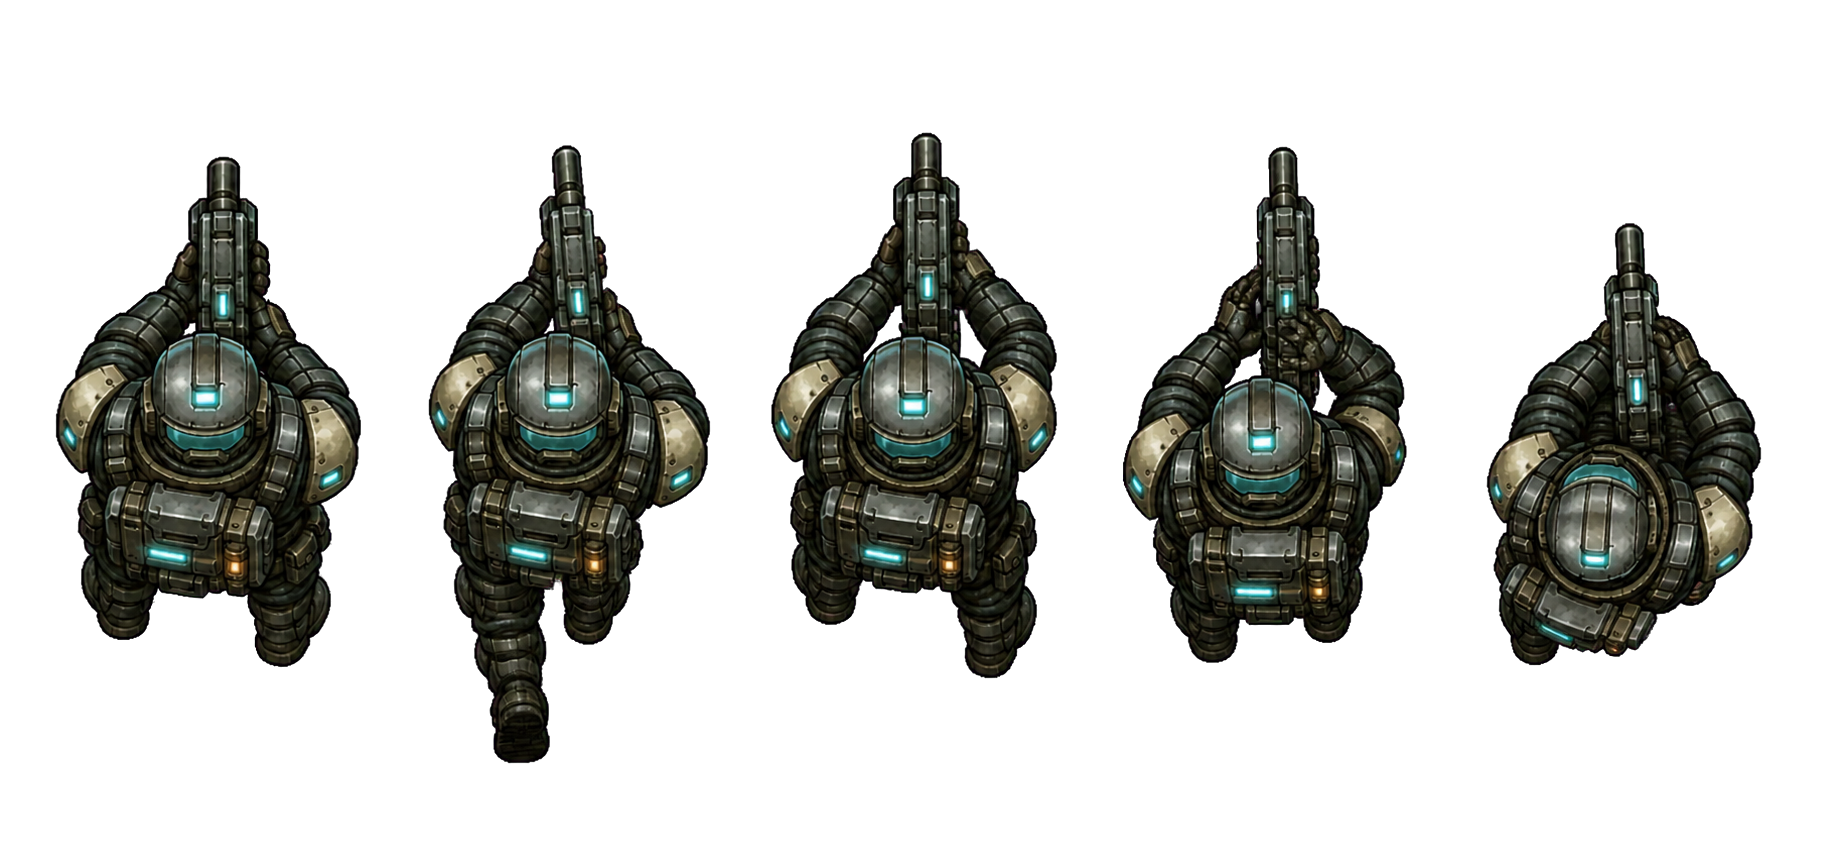
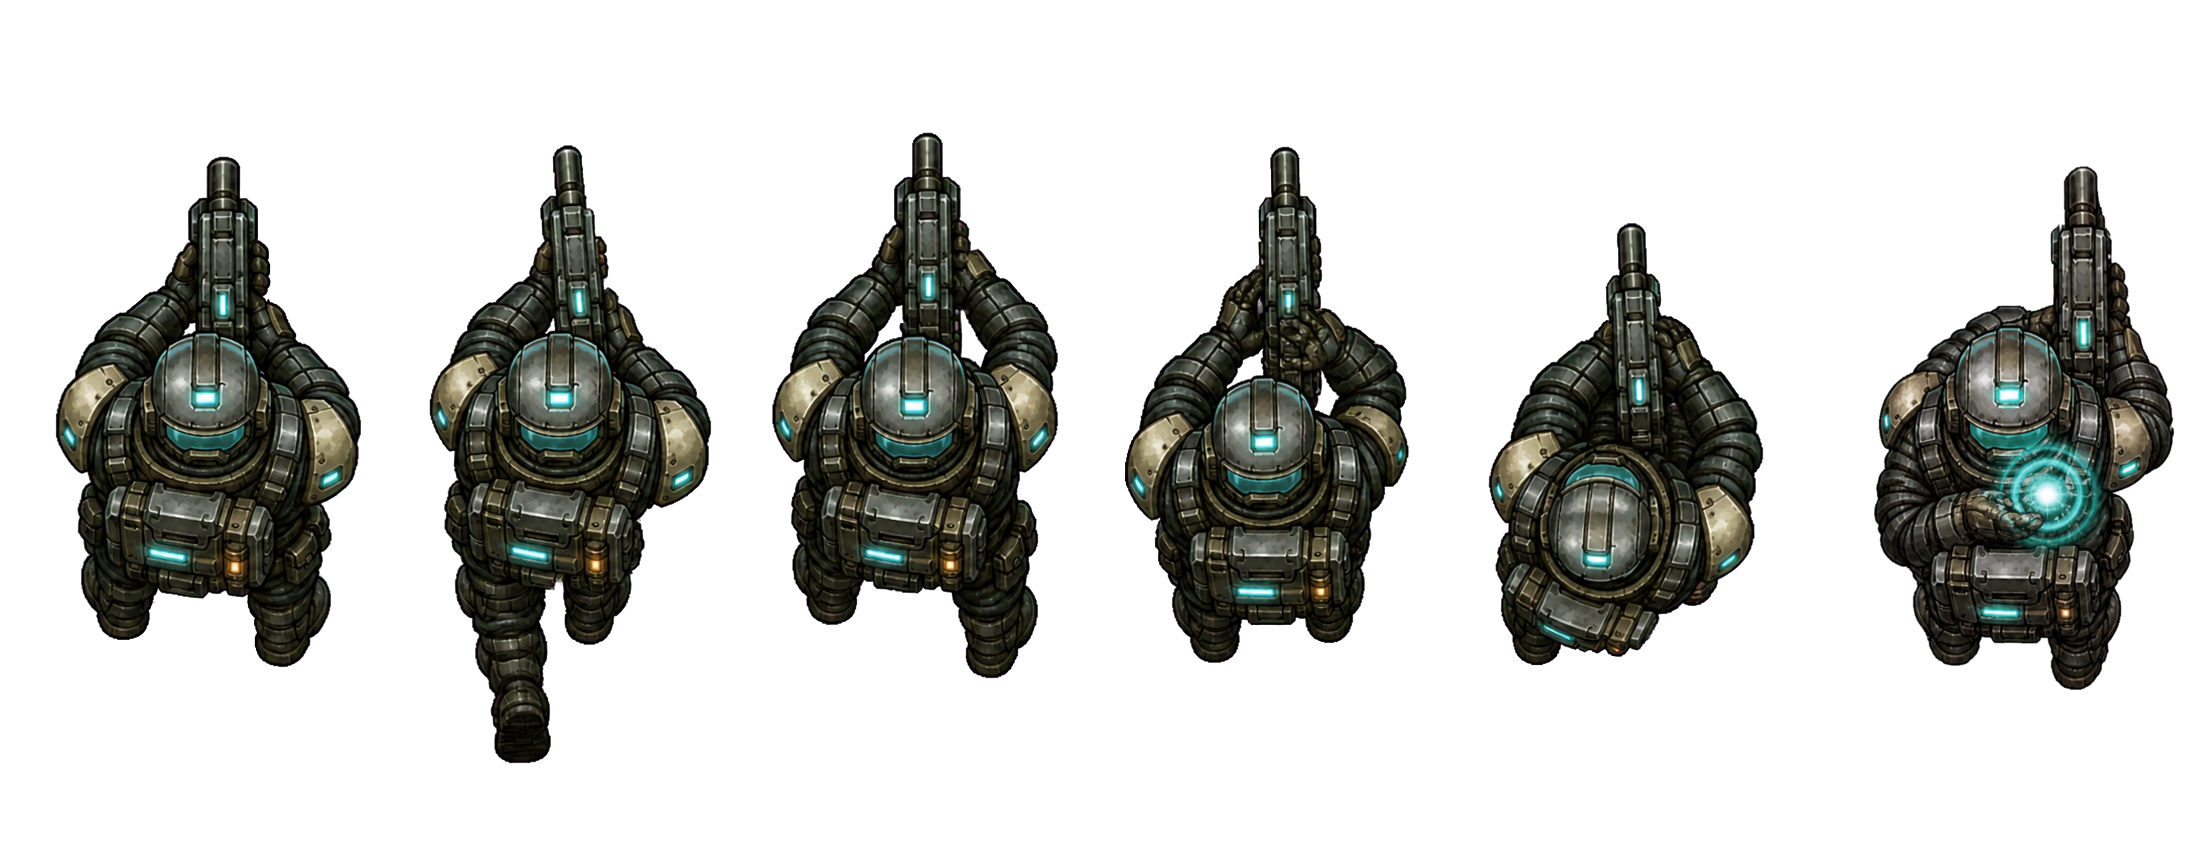
Add Tactical player animation support

diff --git a/apps/multiplayer-outpost-siege-demo/src/content/foundation-definitions.ts b/apps/multiplayer-outpost-siege-demo/src/content/foundation-definitions.ts
@@ -401,7 +401,11 @@ export function outpostSpriteAnimations(assetId: string): AssetAnimationManifest
       animation("outpost.player.reload-active", [7], 1, 0),
       animation("outpost.player.reload-recovering", [7, 8], 4, 0),
       animation("outpost.player.hit", [11], 1, 0),
-      animation("outpost.player.dead", [12], 1, 0)
+      animation("outpost.player.dead", [12], 1, 0),
+      animation("outpost.player.tactical-preparing", [0, 13], 6, 0),
+      animation("outpost.player.tactical-committed", [13], 1, 0),
+      animation("outpost.player.tactical-active", [13], 1, 0),
+      animation("outpost.player.tactical-recovering", [13, 0], 6, 0)
     ];
   }
   return [
@@ -549,6 +553,10 @@ function createPlayerClipDefinitions(assetId: string): AnimationClipDefinition[]
     clip("player", "reload-committed", assetId, 100, false),
     clip("player", "reload-active", assetId, 100, false),
     clip("player", "reload-recovering", assetId, 450, false),
+    clip("player", "tactical-preparing", assetId, 260, false),
+    clip("player", "tactical-committed", assetId, 1, false),
+    clip("player", "tactical-active", assetId, 160, false),
+    clip("player", "tactical-recovering", assetId, 260, false),
     clip("player", "hit", assetId, 180, false),
     clip("player", "dead", assetId, 1_000, true)
   ];
@@ -567,7 +575,8 @@ function createEnemyClipDefinitions(role: string, assetId: string): AnimationCli
 function playerPhaseMappings(): NonNullable<AnimatorBindingDefinition["phaseMappings"]> {
   return [
     ...abilityPhaseMappings("ability.outpost.rifle_fire", "rifle"),
-    ...abilityPhaseMappings("ability.outpost.rifle_reload", "reload")
+    ...abilityPhaseMappings("ability.outpost.rifle_reload", "reload"),
+    ...abilityPhaseMappings("ability.outpost.shock_field", "tactical")
   ];
 }
 

diff --git a/apps/multiplayer-outpost-siege-demo/src/test/content-pipeline.test.ts b/apps/multiplayer-outpost-siege-demo/src/test/content-pipeline.test.ts
@@ -244,9 +244,9 @@ describe("Outpost content pipeline", () => {
       frame: { width: 128, height: 128 },
       metadata: {
         referenceSource: "assets-src/outpost/combat/player.webp",
-        sourceColumns: 5,
+        sourceColumns: 6,
         sourceRows: 1,
-        runtimeFrameCount: 13
+        runtimeFrameCount: 14
       }
     });
     expect(playerAsset.animations).toEqual(
@@ -254,7 +254,8 @@ describe("Outpost content pipeline", () => {
         expect.objectContaining({ id: "outpost.player.idle", frames: [0, 1] }),
         expect.objectContaining({ id: "outpost.player.run", frames: [2, 3] }),
         expect.objectContaining({ id: "outpost.player.dash", frames: [9, 10] }),
-        expect.objectContaining({ id: "outpost.player.reload-preparing", frames: [6, 7] })
+        expect.objectContaining({ id: "outpost.player.reload-preparing", frames: [6, 7] }),
+        expect.objectContaining({ id: "outpost.player.tactical-active", frames: [13] })
       ])
     );
     expect(
@@ -307,6 +308,18 @@ describe("Outpost content pipeline", () => {
           phase: "recovering",
           layer: "base",
           clip: "reload-recovering"
+        },
+        {
+          abilityId: "ability.outpost.shock_field",
+          phase: "preparing",
+          layer: "base",
+          clip: "tactical-preparing"
+        },
+        {
+          abilityId: "ability.outpost.shock_field",
+          phase: "active",
+          layer: "base",
+          clip: "tactical-active"
         }
       ])
     );

diff --git a/apps/multiplayer-outpost-siege-demo/src/test/browser-multiplayer.test.ts b/apps/multiplayer-outpost-siege-demo/src/test/browser-multiplayer.test.ts
@@ -205,7 +205,7 @@ describe("Outpost Browser multiplayer", () => {
     expect(world.count()).toBe(0);
   });
 
-  it("presents replicated Dash and reload through the shared player Animator controller", async () => {
+  it("presents replicated Dash, reload, and Tactical through the shared player Animator controller", async () => {
     const backend = createMemoryMultiplayerBackend({ id: "outpost.client-animation.test" });
     const server = createMultiplayerRuntime({ id: "server", backend });
     const multiplayer = createMultiplayerRuntime({ id: "client", backend });
@@ -268,6 +268,24 @@ describe("Outpost Browser multiplayer", () => {
     expect(animationAdapter.frame(controllerId)?.layers[0]).toMatchObject({
       kind: "gameplay-phase",
       clipId: "animation.outpost.player.reload-preparing"
+    });
+
+    snapshot.tick = 3;
+    snapshot.elapsedMs = 900;
+    snapshot.combat.actors[0] = {
+      ...snapshot.combat.actors[0]!,
+      abilityExecutionId: "player.ranger-1:tactical:1",
+      abilityId: "ability.outpost.shock_field",
+      abilityPhase: "active",
+      abilityPhaseStartedAt: 860,
+      abilityPhaseEndsAt: 1_020
+    };
+    await sendSnapshot(server, snapshot);
+    client.runtime.tick(16);
+
+    expect(animationAdapter.frame(controllerId)?.layers[0]).toMatchObject({
+      kind: "gameplay-phase",
+      clipId: "animation.outpost.player.tactical-active"
     });
 
     await client.runtime.dispose();

diff --git a/apps/multiplayer-outpost-siege-demo/src/content/runtime-image-assets.ts b/apps/multiplayer-outpost-siege-demo/src/content/runtime-image-assets.ts
@@ -110,7 +110,7 @@ export const outpostRuntimeImageAssets: readonly OutpostRuntimeImageAsset[] = [
     group: "combat",
     preload: true,
     spriteSheet: {
-      sourceColumns: 5,
+      sourceColumns: 6,
       sourceRows: 1,
       poseBounds: { width: 68, height: 110 },
       frames: [
@@ -126,7 +126,8 @@ export const outpostRuntimeImageAssets: readonly OutpostRuntimeImageAsset[] = [
         { sourceFrame: 4 },
         { sourceFrame: 4, flipX: true, offsetY: -1 },
         { sourceFrame: 0, rotateDegrees: 7 },
-        { sourceFrame: 4, rotateDegrees: 90 }
+        { sourceFrame: 4, rotateDegrees: 90 },
+        { sourceFrame: 5 }
       ]
     }
   },
